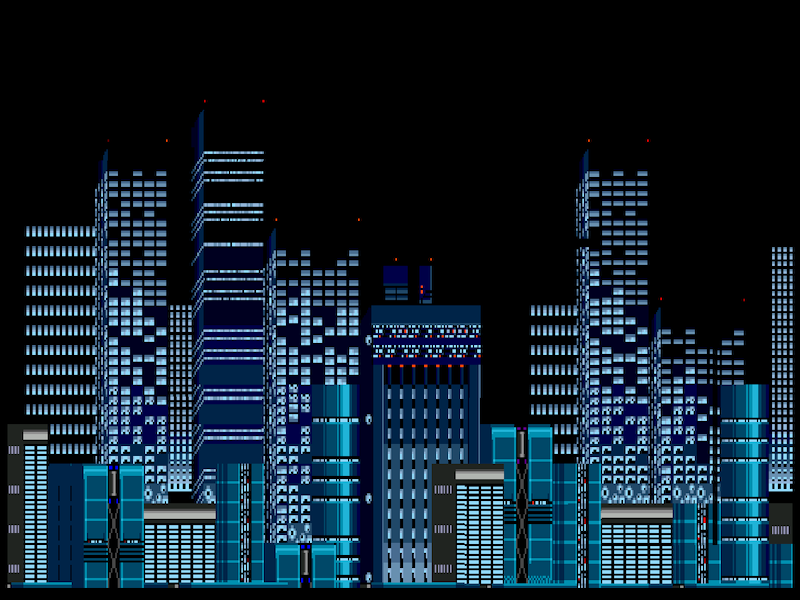
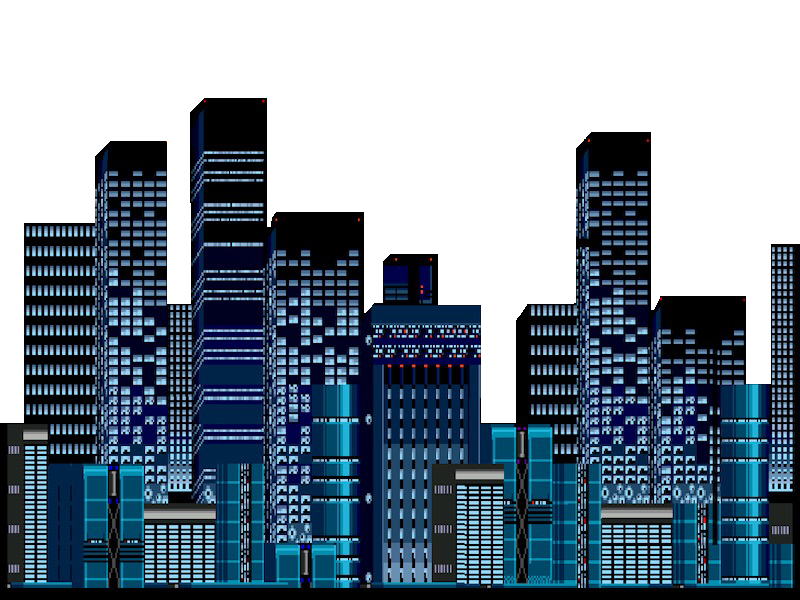
created more platforms and time and score text WIP collecting cases function

diff --git a/src/scenes/Level1.js b/src/scenes/Level1.js
@@ -20,9 +20,9 @@ export default class Level1 extends Phaser.Scene
     }
 
     createLevel(){
-        // const playTextStyle = {
-        //     fontFamily: '"Press Start 2P"'
-        // }
+        const playTextStyle = {
+            fontFamily: '"Press Start 2P"'
+        }
 
         this.music = this.sound.add('level1Music')
 
@@ -31,34 +31,43 @@ export default class Level1 extends Phaser.Scene
         
         this.cursors = this.input.keyboard.createCursorKeys()
 
+        this.bg_2 = this.add.tileSprite(0, 0, width, height, "citySky").setOrigin(0, 0).setScrollFactor(0)
         this.bg_1 = this.add.tileSprite(0, 0, width, height, "bg_1").setOrigin(0, 0).setScrollFactor(0)
-        // this.health = this.add.text(20, 20, 'Health: 100', playTextStyle)
-
-
-
         
         this.ground = this.physics.add.staticGroup();
         this.ground.create(400, 575, 'ground').setScale(2).refreshBody();
 
-        // this.ground = this.add.tileSprite(0, 0, width, 48, "ground");
-        // this.ground.setOrigin(0, 0);
-        // this.ground.setScrollFactor(0);
-        // this.ground.y = 555;
-        // this.physics.add.existing(this.ground, false)
-        // this.ground.body.setCollideWorldBounds(true)
-        // this.ground.body.immovable = true
-
-
         
         let platforms = this.physics.add.staticGroup()
 
+        
+        platforms.create(120, 250, 'platform');
         platforms.create(400, 400, 'platform');
-        platforms.create(50, 250, 'platform');
-        platforms.create(750, 220, 'platform');
 
-        this.player = this.physics.add.sprite(200,300, 'player').setScale(.75);
+        platforms.create(900, 140, 'platform');
+        platforms.create(900, 300, 'platform');
+        platforms.create(900, 460, 'platform');
+       
+        
+        platforms.create(1425, 360, 'platform');
+        platforms.create(2200, 250, 'platform');
+        platforms.create(3015, 160, 'platform');
+
+        this.player = this.physics.add.sprite(100, 460, 'player').setScale(.75);
 
         this.player.body.setSize(this.player.width, this.player.height, true)
+
+        this.floorCases = this.physics.add.group({
+            key: 'case',
+            repeat: 70,
+            setXY: { x: 12, y: 500, stepX: 70 }
+        });
+
+        this.bonusCases = this.physics.add.group({
+            key: 'bonusCase',
+            repeat: 4,
+            setXY: { x: 2850, y: 0, stepX: 70 }
+        });
 
         
         this.anims.create({
@@ -108,10 +117,19 @@ export default class Level1 extends Phaser.Scene
 
         this.physics.add.collider(this.player, platforms);
         this.physics.add.collider(this.player, this.ground)
+        this.physics.add.collider(this.floorCases, platforms);
+        this.physics.add.collider(this.floorCases, this.ground)
+        this.physics.add.collider(this.bonusCases, platforms);
+        this.physics.add.collider(this.bonusCases, this.ground)
         
-
+        this.initialTime = 5;
+        this.timeText = this.add.text(32, 32, 'TIME: ' + this.initialTime,  playTextStyle).setScrollFactor(0);
+        this.scoreText = this.add.text(32, 64, 'SCORE: 0',  playTextStyle).setScrollFactor(0)
+        this.timedEvent = this.time.addEvent({ delay: 1000, callback: this.onEvent, callbackScope: this, loop: true });
         // this.music.play()
     }
+
+
 
     update(){
 
@@ -122,11 +140,11 @@ export default class Level1 extends Phaser.Scene
         
         if (this.cursors.left.isDown  && this.player.x > 0 && !this.cursors.down.isDown && !keyA.isDown )
         {
-            this.player.setVelocityX(-200);
+            this.player.x -=4;
             this.player.anims.play('left', true);
 
         }else if (this.cursors.right.isDown  && this.player.x < width * 4 && !this.cursors.down.isDown && !keyA.isDown ){
-            this.player.setVelocityX(200);
+            this.player.x +=4;
             this.player.anims.play('right', true);
 
         }else{
@@ -134,7 +152,7 @@ export default class Level1 extends Phaser.Scene
             this.player.anims.play('turn');
         }
 
-        if (this.cursors.up.isDown && this.player.body.touching.down){
+        if ((this.cursors.space.isDown || this.cursors.up.isDown)  && this.player.body.touching.down){
             this.player.setVelocityY(-370);
             this.player.anims.play('jump')
         }
@@ -157,8 +175,33 @@ export default class Level1 extends Phaser.Scene
             this.player.anims.play('jump')
         }
 
-        this.bg_1.tilePositionX = this.myCam.scrollX * 1;
+        this.bg_1.tilePositionX = this.myCam.scrollX * .5;
+        this.bg_2.tilePositionX = this.myCam.scrollX * .3;
     }
 
+    formatTime(seconds){
+        // Minutes
+        var minutes = Math.floor(seconds/60);
+        // Seconds
+        var partInSeconds = seconds%60;
+        // Adds left zeros to seconds
+        partInSeconds = partInSeconds.toString().padStart(2,'0');
+        // Returns formated time
+        return `${minutes}:${partInSeconds}`;
+    }
+
+    onEvent(){
+        this.timeText.setText('TIME: ' + this.initialTime);
+
+        if(this.initialTime === 0){
+            this.add.text(100, 100, 'I am working')
+        }else{
+            this.initialTime -= 1;
+        }
+    }
+
+    collectCase(){
+
+    }
     
 }

diff --git a/src/scenes/Preloader.js b/src/scenes/Preloader.js
@@ -17,7 +17,12 @@ export default class Preloader extends Phaser.Scene
         this.load.spritesheet('player','assets/Level1/dude.png', { frameWidth: 68.23529, frameHeight: 76})
         this.load.spritesheet('playerJump', 'assets/Level1/jump.png', { frameWidth: 50.2, frameHeight: 79});
         this.load.spritesheet('punch', 'assets/Level1/punch.png', { frameWidth: 75, frameHeight: 76})
-        this.load.image('ground', 'assets/Level1/groundLong.png')
+		this.load.image('ground', 'assets/Level1/groundLong.png')
+		this.load.image('citySky', 'assets/Level1/citySky.jpg')
+		this.load.image('dumpster', 'assets/Level1/dumpster.png')
+		this.load.image('fire', 'assets/Level1/fire.png')
+		this.load.image('case', 'assets/Level1/case.png')
+		this.load.image('bonusCase', 'assets/Level1/bonusCase.png')
         this.load.image('platform', 'assets/Level1/platform.png')
         this.load.audio('level1Music', 'assets/TitleScreen/Kreuzberg_Nights.mp3')
 	}
